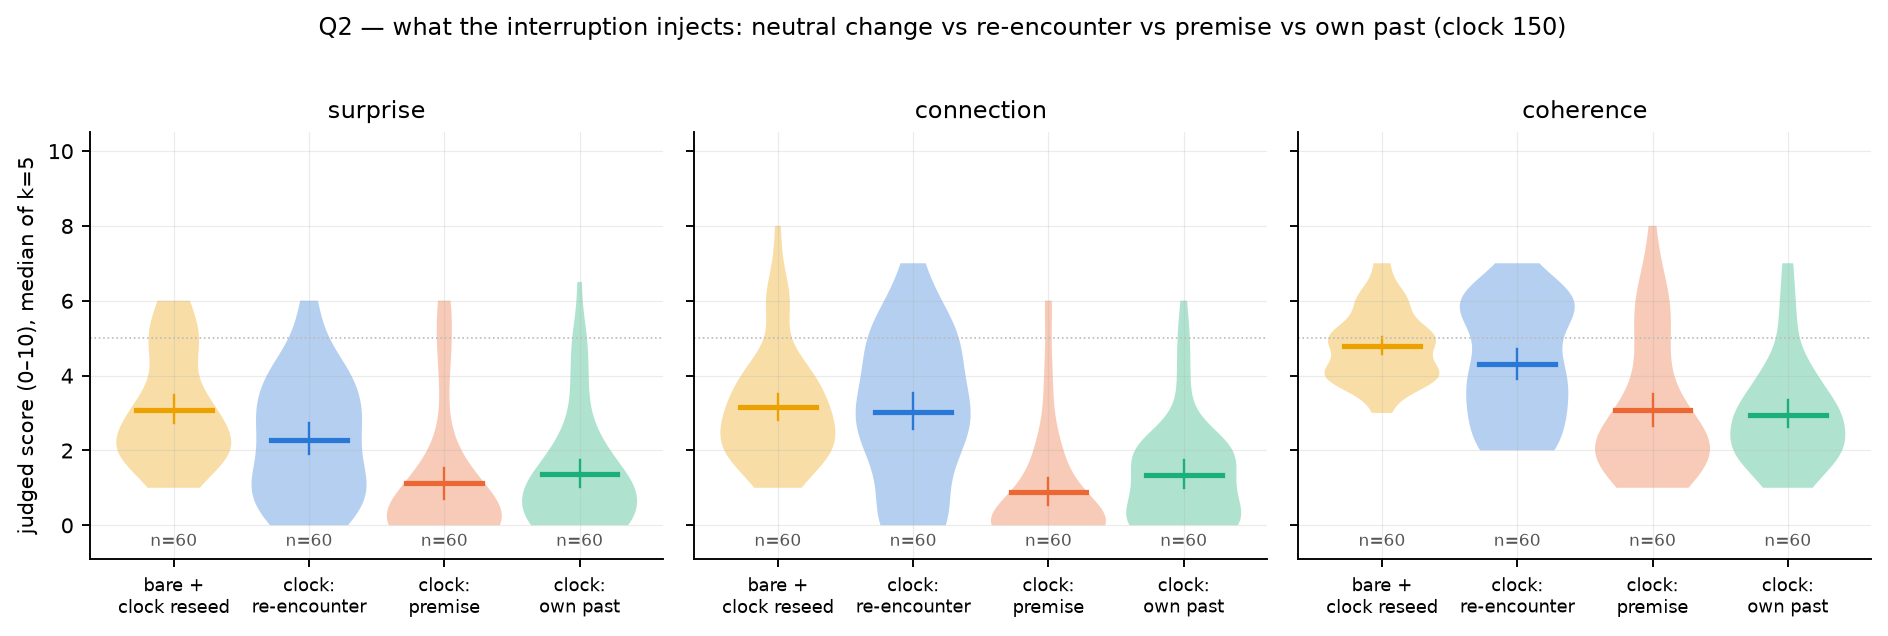
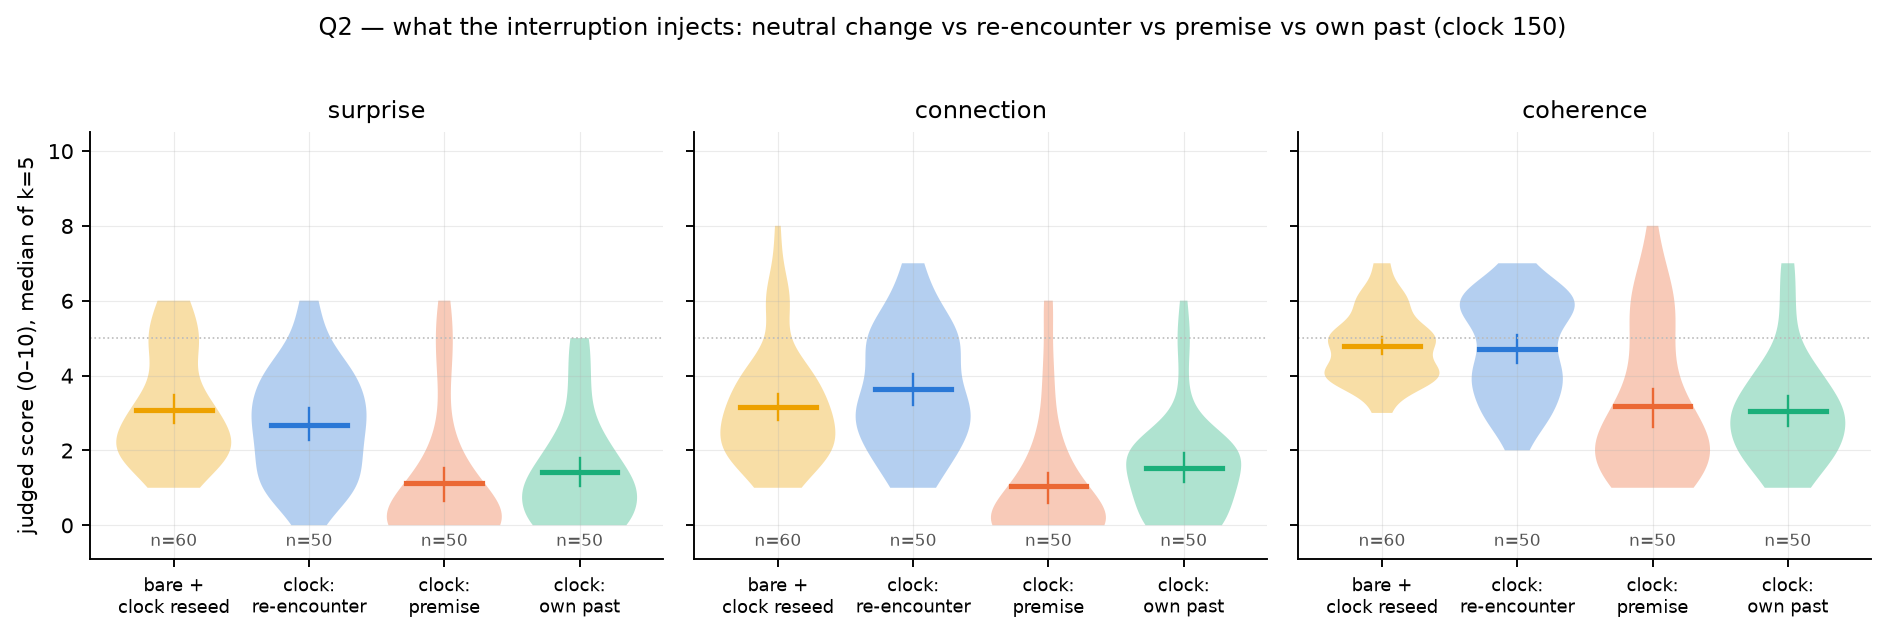
analysis_b2: exclude degenerate windows (<100 generated tokens); PAPER Q2 corrected numbers

diff --git a/scripts/analysis_b2.py b/scripts/analysis_b2.py
@@ -87,9 +87,13 @@ FAM8B = load("dream_fam8b")
 md = ["# Appendix — battery 2 (auto-generated by scripts/analysis_b2.py)\n"]
 
 
+MIN_STEP = 100  # windows ending before 100 generated tokens are degenerate (the first clock cut at step 2 is two tokens)
+
+
 def sel(cond: str, kinds=None, pool=None):
     pool = ALL if pool is None else pool
-    return [r for r in pool if r["cond"] == cond and (kinds is None or r["kind"] in kinds) and r.get("surprise") is not None]
+    return [r for r in pool if r["cond"] == cond and (kinds is None or r["kind"] in kinds) and r.get("surprise") is not None
+            and r["step"] >= MIN_STEP]
 
 
 def desc(rows, dim):

diff --git a/docs/APPENDIX_B2.md b/docs/APPENDIX_B2.md
@@ -1,119 +1,131 @@
 # Appendix — battery 2 (auto-generated by scripts/analysis_b2.py)
 
-991 judged windows total (729 from battery 2).
+1063 judged windows total (801 from battery 2).
 
 
 ### Q1 — the confound: habituation without interruption
 
 | condition | windows | kind | surprise | connection | coherence | good (S≥5&H≥5) |
 |---|---|---|---|---|---|---|
-| bare (no habituation, no interruption) | 60 | jump | 0.33 ± 0.70 | 0.17 ± 0.52 | 2.08 ± 1.86 | 0/60 |
+| bare (no habituation, no interruption) | 50 | jump | 0.28 ± 0.72 | 0.20 ± 0.57 | 2.06 ± 2.01 | 0/50 |
 | bare + habituation (no interruption) | 60 | clock | 1.70 ± 1.71 | 1.08 ± 1.10 | 4.08 ± 2.19 | 4/60 |
 | bare + habituation + clock reseed 150 | 60 | clock | 3.08 ± 1.48 | 3.15 ± 1.53 | 4.78 ± 0.95 | 12/60 |
-| DREAM scaffold (λ=0) | 50 | crystallize/jump/recurrence | 3.22 ± 1.91 | 1.60 ± 1.52 | 3.72 ± 1.67 | 8/50 |
+| DREAM scaffold (λ=0) | 47 | crystallize/jump/recurrence | 3.19 ± 1.92 | 1.64 ± 1.56 | 3.68 ± 1.69 | 8/47 |
 
 vs **bare + habituation (no interruption)** (Δ mean, 95% bootstrap CI over windows; Cliff's δ; Mann-Whitney p; paired-by-seed Δ [CI]):
 
 | condition | dim | Δ [CI] | δ | p | paired-by-seed Δ [CI] (n seeds) |
 |---|---|---|---|---|---|
-| bare (no habituation, no interruption) | surprise | **-1.37 [-1.83, -0.92]** | -0.54 | 2.8e-08 | -1.37 [-1.67, -1.07] (10) |
-| bare (no habituation, no interruption) | connection | **-0.92 [-1.23, -0.62]** | -0.54 | 3.0e-09 | -0.92 [-1.23, -0.60] (10) |
-| bare (no habituation, no interruption) | coherence | **-2.00 [-2.70, -1.28]** | -0.54 | 1.6e-07 | -2.00 [-3.25, -0.80] (10) |
+| bare (no habituation, no interruption) | surprise | **-1.42 [-1.89, -0.95]** | -0.58 | 1.4e-08 | -1.42 [-1.72, -1.12] (10) |
+| bare (no habituation, no interruption) | connection | **-0.88 [-1.20, -0.56]** | -0.52 | 1.1e-07 | -0.88 [-1.22, -0.54] (10) |
+| bare (no habituation, no interruption) | coherence | **-2.02 [-2.79, -1.23]** | -0.55 | 3.4e-07 | -2.02 [-3.37, -0.68] (10) |
 | bare + habituation + clock reseed 150 | surprise | **+1.38 [+0.80, +1.93]** | +0.50 | 1.3e-06 | +1.38 [+0.92, +1.92] (10) |
 | bare + habituation + clock reseed 150 | connection | **+2.07 [+1.60, +2.55]** | +0.75 | 5.2e-13 | +2.07 [+1.63, +2.57] (10) |
 | bare + habituation + clock reseed 150 | coherence | **+0.70 [+0.10, +1.30]** | +0.21 | 4.3e-02 | +0.70 [-0.27, +1.72] (10) |
-| DREAM scaffold (λ=0) | surprise | **+1.52 [+0.85, +2.20]** | +0.47 | 1.7e-05 | +1.79 [+1.03, +2.64] (10) |
-| DREAM scaffold (λ=0) | connection | **+0.52 [+0.04, +1.02]** | +0.20 | 6.6e-02 | +0.58 [+0.22, +0.93] (10) |
-| DREAM scaffold (λ=0) | coherence | -0.36 [-1.09, +0.36] | -0.09 | 4.2e-01 | -0.26 [-1.02, +0.54] (10) |
+| DREAM scaffold (λ=0) | surprise | **+1.49 [+0.80, +2.19]** | +0.46 | 3.4e-05 | +1.80 [+0.97, +2.75] (10) |
+| DREAM scaffold (λ=0) | connection | **+0.55 [+0.06, +1.10]** | +0.20 | 6.2e-02 | +0.61 [+0.22, +1.01] (10) |
+| DREAM scaffold (λ=0) | coherence | -0.40 [-1.14, +0.34] | -0.10 | 3.8e-01 | -0.26 [-1.03, +0.56] (10) |
 
 ### Q2 — content of the interruption (windows right before each injection)
 
 | condition | windows | kind | surprise | connection | coherence | good (S≥5&H≥5) |
 |---|---|---|---|---|---|---|
 | neutral subject change (clock 150) | 60 | clock | 3.08 ± 1.48 | 3.15 ± 1.53 | 4.78 ± 0.95 | 12/60 |
-| re-encounter stitch (clock 150) | 60 | cut | 2.28 ± 1.61 | 3.03 ± 1.97 | 4.30 ± 1.54 | 5/60 |
-| the premise itself (clock 150) | 60 | cut | 1.12 ± 1.73 | 0.90 ± 1.49 | 3.07 ± 1.80 | 4/60 |
-| the stream's own past (clock 150) | 60 | cut | 1.36 ± 1.52 | 1.33 ± 1.39 | 2.95 ± 1.40 | 3/60 |
+| re-encounter stitch (clock 150) | 50 | cut | 2.68 ± 1.46 | 3.64 ± 1.57 | 4.72 ± 1.33 | 5/50 |
+| the premise itself (clock 150) | 50 | cut | 1.14 ± 1.73 | 1.04 ± 1.57 | 3.18 ± 1.90 | 3/50 |
+| the stream's own past (clock 150) | 50 | cut | 1.42 ± 1.43 | 1.52 ± 1.35 | 3.06 ± 1.42 | 2/50 |
 
 vs **neutral subject change (clock 150)** (Δ mean, 95% bootstrap CI over windows; Cliff's δ; Mann-Whitney p; paired-by-seed Δ [CI]):
 
 | condition | dim | Δ [CI] | δ | p | paired-by-seed Δ [CI] (n seeds) |
 |---|---|---|---|---|---|
-| re-encounter stitch (clock 150) | surprise | **-0.80 [-1.35, -0.25]** | -0.27 | 9.4e-03 | -0.80 [-1.63, +0.01] (10) |
-| re-encounter stitch (clock 150) | connection | -0.12 [-0.77, +0.52] | -0.00 | 9.8e-01 | -0.12 [-1.07, +0.85] (10) |
-| re-encounter stitch (clock 150) | coherence | **-0.48 [-0.95, -0.02]** | -0.17 | 1.1e-01 | -0.48 [-1.10, +0.10] (10) |
-| the premise itself (clock 150) | surprise | **-1.97 [-2.52, -1.38]** | -0.69 | 2.9e-11 | -1.97 [-2.65, -1.38] (10) |
-| the premise itself (clock 150) | connection | **-2.25 [-2.78, -1.72]** | -0.76 | 2.3e-13 | -2.25 [-2.92, -1.67] (10) |
-| the premise itself (clock 150) | coherence | **-1.72 [-2.22, -1.20]** | -0.59 | 1.8e-08 | -1.72 [-2.37, -0.93] (10) |
-| the stream's own past (clock 150) | surprise | **-1.73 [-2.25, -1.18]** | -0.64 | 9.7e-10 | -1.73 [-2.30, -1.19] (10) |
-| the stream's own past (clock 150) | connection | **-1.82 [-2.35, -1.28]** | -0.66 | 1.9e-10 | -1.82 [-2.48, -1.18] (10) |
-| the stream's own past (clock 150) | coherence | **-1.83 [-2.26, -1.38]** | -0.72 | 3.5e-12 | -1.83 [-2.36, -1.32] (10) |
+| re-encounter stitch (clock 150) | surprise | -0.40 [-0.95, +0.14] | -0.13 | 2.4e-01 | -0.40 [-1.29, +0.46] (10) |
+| re-encounter stitch (clock 150) | connection | +0.49 [-0.09, +1.07] | +0.20 | 7.1e-02 | +0.49 [-0.56, +1.56] (10) |
+| re-encounter stitch (clock 150) | coherence | -0.06 [-0.50, +0.38] | -0.00 | 9.8e-01 | -0.06 [-0.75, +0.57] (10) |
+| the premise itself (clock 150) | surprise | **-1.94 [-2.53, -1.31]** | -0.68 | 6.1e-10 | -1.94 [-2.65, -1.30] (10) |
+| the premise itself (clock 150) | connection | **-2.11 [-2.68, -1.51]** | -0.72 | 4.1e-11 | -2.11 [-2.83, -1.46] (10) |
+| the premise itself (clock 150) | coherence | **-1.60 [-2.15, -1.01]** | -0.53 | 1.2e-06 | -1.60 [-2.36, -0.70] (10) |
+| the stream's own past (clock 150) | surprise | **-1.66 [-2.21, -1.11]** | -0.61 | 2.1e-08 | -1.66 [-2.26, -1.07] (10) |
+| the stream's own past (clock 150) | connection | **-1.63 [-2.17, -1.08]** | -0.62 | 9.0e-09 | -1.63 [-2.37, -0.91] (10) |
+| the stream's own past (clock 150) | coherence | **-1.72 [-2.18, -1.24]** | -0.70 | 1.1e-10 | -1.72 [-2.30, -1.11] (10) |
 
 ### Q3 — timing of the re-encounter: clock vs salience
 
 | condition | windows | kind | surprise | connection | coherence | good (S≥5&H≥5) |
 |---|---|---|---|---|---|---|
-| re-encounter on the clock (150) | 60 | cut | 2.28 ± 1.61 | 3.03 ± 1.97 | 4.30 ± 1.54 | 5/60 |
-| re-encounter on the clock (900; matched frequency) | 0 | — | — | — | — | 0/0 |
-| neutral change on the clock (900; matched frequency) | 3 | cut | 2.00 ± 1.41 | 1.33 ± 0.94 | 5.33 ± 1.70 | 0/3 |
-| re-encounter on salience events (event windows) | 86 | crystallize/cut/jump/recurrence | 3.90 ± 1.43 | 2.85 ± 1.74 | 3.79 ± 1.18 | 8/86 |
+| re-encounter on the clock (150) | 50 | cut | 2.68 ± 1.46 | 3.64 ± 1.57 | 4.72 ± 1.33 | 5/50 |
+| re-encounter on the clock (900; matched frequency) | 12 | cut | 2.83 ± 1.91 | 2.25 ± 1.74 | 3.92 ± 1.44 | 2/12 |
+| neutral change on the clock (900; matched frequency) | 16 | cut | 1.88 ± 1.32 | 1.69 ± 1.10 | 5.75 ± 2.02 | 0/16 |
+| re-encounter on salience events (event windows) | 80 | crystallize/cut/jump/recurrence | 3.92 ± 1.42 | 2.99 ± 1.73 | 3.75 ± 1.18 | 8/80 |
 | re-encounter on salience events (uniform windows) | 60 | clock | 2.18 ± 2.04 | 1.68 ± 1.65 | 3.93 ± 1.88 | 4/60 |
-| re-encounter on the clock (900), uniform windows | 0 | — | — | — | — | 0/0 |
-| neutral change on the clock (900), uniform windows | 0 | — | — | — | — | 0/0 |
-| salience only, no injection (event windows) | 42 | crystallize/jump/recurrence | 2.74 ± 1.76 | 1.36 ± 1.36 | 3.71 ± 1.59 | 2/42 |
+| re-encounter on the clock (900), uniform windows | 18 | clock | 4.39 ± 1.60 | 3.50 ± 1.54 | 5.00 ± 1.63 | 7/18 |
+| neutral change on the clock (900), uniform windows | 22 | clock | 5.45 ± 2.08 | 2.91 ± 2.00 | 5.95 ± 1.26 | 16/22 |
+| salience only, no injection (event windows) | 38 | crystallize/jump/recurrence | 2.63 ± 1.75 | 1.39 ± 1.42 | 3.71 ± 1.60 | 2/38 |
 
 vs **re-encounter on the clock (150)** (Δ mean, 95% bootstrap CI over windows; Cliff's δ; Mann-Whitney p; paired-by-seed Δ [CI]):
 
 | condition | dim | Δ [CI] | δ | p | paired-by-seed Δ [CI] (n seeds) |
 |---|---|---|---|---|---|
-| neutral change on the clock (900; matched frequency) | surprise | -0.28 [-1.58, +1.59] | -0.08 | 8.3e-01 | — |
-| neutral change on the clock (900; matched frequency) | connection | **-1.70 [-2.97, -0.67]** | -0.53 | 1.2e-01 | — |
-| neutral change on the clock (900; matched frequency) | coherence | +1.03 [-1.22, +2.70] | +0.37 | 2.8e-01 | — |
-| re-encounter on salience events (event windows) | surprise | **+1.61 [+1.10, +2.11]** | +0.52 | 5.9e-08 | +1.47 [+0.75, +2.17] (10) |
-| re-encounter on salience events (event windows) | connection | -0.18 [-0.80, +0.42] | -0.07 | 4.5e-01 | -0.41 [-0.95, +0.12] (10) |
-| re-encounter on salience events (event windows) | coherence | **-0.51 [-0.97, -0.05]** | -0.19 | 5.2e-02 | -0.41 [-1.17, +0.30] (10) |
-| re-encounter on salience events (uniform windows) | surprise | -0.10 [-0.75, +0.56] | -0.08 | 4.3e-01 | -0.10 [-0.72, +0.39] (10) |
-| re-encounter on salience events (uniform windows) | connection | **-1.35 [-2.00, -0.70]** | -0.39 | 1.8e-04 | -1.35 [-1.95, -0.83] (10) |
-| re-encounter on salience events (uniform windows) | coherence | -0.37 [-0.98, +0.23] | -0.12 | 2.5e-01 | -0.37 [-0.83, +0.08] (10) |
-| salience only, no injection (event windows) | surprise | +0.45 [-0.20, +1.13] | +0.14 | 2.4e-01 | +0.61 [-0.26, +1.58] (10) |
-| salience only, no injection (event windows) | connection | **-1.68 [-2.31, -1.02]** | -0.49 | 1.8e-05 | -1.56 [-2.30, -0.77] (10) |
-| salience only, no injection (event windows) | coherence | -0.59 [-1.22, +0.03] | -0.19 | 9.1e-02 | -0.53 [-1.46, +0.34] (10) |
+| re-encounter on the clock (900; matched frequency) | surprise | +0.15 [-0.97, +1.31] | +0.04 | 8.6e-01 | +0.50 [-0.55, +1.75] (3) |
+| re-encounter on the clock (900; matched frequency) | connection | **-1.39 [-2.41, -0.25]** | -0.46 | 1.2e-02 | -1.35 [-3.60, +1.00] (3) |
+| re-encounter on the clock (900; matched frequency) | coherence | -0.80 [-1.72, +0.08] | -0.29 | 1.1e-01 | -0.62 [-2.25, +1.55] (3) |
+| neutral change on the clock (900; matched frequency) | surprise | **-0.81 [-1.56, -0.02]** | -0.30 | 6.5e-02 | -0.68 [-1.75, +0.40] (4) |
+| neutral change on the clock (900; matched frequency) | connection | **-1.95 [-2.65, -1.27]** | -0.65 | 7.4e-05 | -1.81 [-3.07, -0.64] (4) |
+| neutral change on the clock (900; matched frequency) | coherence | +1.03 [-0.06, +2.06] | +0.36 | 3.0e-02 | +1.30 [+0.02, +2.57] (4) |
+| re-encounter on salience events (event windows) | surprise | **+1.24 [+0.73, +1.75]** | +0.44 | 2.0e-05 | +1.10 [+0.34, +1.85] (10) |
+| re-encounter on salience events (event windows) | connection | **-0.65 [-1.23, -0.06]** | -0.24 | 2.2e-02 | -0.92 [-1.55, -0.29] (10) |
+| re-encounter on salience events (event windows) | coherence | **-0.97 [-1.41, -0.52]** | -0.39 | 1.5e-04 | -0.86 [-1.72, -0.06] (10) |
+| re-encounter on salience events (uniform windows) | surprise | -0.50 [-1.14, +0.15] | -0.21 | 5.5e-02 | -0.50 [-1.11, -0.01] (10) |
+| re-encounter on salience events (uniform windows) | connection | **-1.96 [-2.54, -1.35]** | -0.61 | 2.7e-08 | -1.96 [-2.62, -1.37] (10) |
+| re-encounter on salience events (uniform windows) | coherence | **-0.79 [-1.38, -0.19]** | -0.25 | 2.1e-02 | -0.79 [-1.31, -0.29] (10) |
+| re-encounter on the clock (900), uniform windows | surprise | **+1.71 [+0.81, +2.51]** | +0.58 | 2.4e-04 | +2.06 [+1.20, +2.67] (3) |
+| re-encounter on the clock (900), uniform windows | connection | -0.14 [-0.98, +0.68] | -0.02 | 9.3e-01 | -0.10 [-1.43, +1.33] (3) |
+| re-encounter on the clock (900), uniform windows | coherence | +0.28 [-0.55, +1.11] | +0.09 | 5.6e-01 | +0.47 [-0.07, +0.97] (3) |
+| neutral change on the clock (900), uniform windows | surprise | **+2.77 [+1.77, +3.68]** | +0.69 | 2.7e-06 | +2.85 [+1.46, +4.23] (4) |
+| neutral change on the clock (900), uniform windows | connection | -0.73 [-1.67, +0.22] | -0.25 | 9.2e-02 | -0.62 [-2.92, +1.57] (4) |
+| neutral change on the clock (900), uniform windows | coherence | **+1.23 [+0.56, +1.84]** | +0.53 | 2.5e-04 | +1.55 [+0.20, +2.38] (4) |
+| salience only, no injection (event windows) | surprise | -0.05 [-0.73, +0.64] | -0.05 | 7.0e-01 | +0.18 [-0.80, +1.31] (10) |
+| salience only, no injection (event windows) | connection | **-2.25 [-2.87, -1.62]** | -0.73 | 3.8e-09 | -2.11 [-3.00, -1.16] (10) |
+| salience only, no injection (event windows) | coherence | **-1.01 [-1.64, -0.37]** | -0.35 | 4.5e-03 | -0.87 [-1.92, +0.12] (10) |
 
 ### Q4 — frequency of interruption (neutral seed)
 
 | condition | windows | kind | surprise | connection | coherence | good (S≥5&H≥5) |
 |---|---|---|---|---|---|---|
-| every 75 (before injection) | 60 | cut | 0.88 ± 1.27 | 1.15 ± 1.17 | 3.03 ± 0.93 | 2/60 |
+| every 75 (before injection) | 50 | cut | 0.86 ± 1.04 | 1.28 ± 1.04 | 3.08 ± 0.63 | 1/50 |
 | every 150 (before injection) | 60 | clock | 3.08 ± 1.48 | 3.15 ± 1.53 | 4.78 ± 0.95 | 12/60 |
-| every 300 (before injection) | 60 | cut | 2.53 ± 1.61 | 2.25 ± 1.79 | 5.25 ± 1.62 | 7/60 |
-| every 600 (before injection) | 60 | cut | 2.64 ± 1.73 | 2.13 ± 1.79 | 4.77 ± 1.94 | 6/60 |
-| every 900 (before injection) | 3 | cut | 2.00 ± 1.41 | 1.33 ± 0.94 | 5.33 ± 1.70 | 0/3 |
+| every 300 (before injection) | 50 | cut | 2.90 ± 1.50 | 2.70 ± 1.63 | 5.88 ± 0.82 | 7/50 |
+| every 600 (before injection) | 50 | cut | 3.06 ± 1.58 | 2.56 ± 1.66 | 5.32 ± 1.62 | 6/50 |
+| every 900 (before injection) | 16 | cut | 1.88 ± 1.32 | 1.69 ± 1.10 | 5.75 ± 2.02 | 0/16 |
 | every 300 (mid-segment) | 60 | clock | 4.93 ± 1.53 | 3.47 ± 1.68 | 6.07 ± 0.98 | 34/60 |
 | every 600 (mid-segment) | 60 | clock | 4.12 ± 1.83 | 2.70 ± 1.63 | 5.65 ± 1.54 | 23/60 |
-| every 900 (mid-segment) | 0 | — | — | — | — | 0/0 |
+| every 900 (mid-segment) | 22 | clock | 5.45 ± 2.08 | 2.91 ± 2.00 | 5.95 ± 1.26 | 16/22 |
 
 vs **every 150 (before injection)** (Δ mean, 95% bootstrap CI over windows; Cliff's δ; Mann-Whitney p; paired-by-seed Δ [CI]):
 
 | condition | dim | Δ [CI] | δ | p | paired-by-seed Δ [CI] (n seeds) |
 |---|---|---|---|---|---|
-| every 75 (before injection) | surprise | **-2.21 [-2.68, -1.72]** | -0.83 | 1.7e-15 | -2.21 [-2.93, -1.60] (10) |
-| every 75 (before injection) | connection | **-2.00 [-2.48, -1.52]** | -0.77 | 5.9e-14 | -2.00 [-2.65, -1.37] (10) |
-| every 75 (before injection) | coherence | **-1.75 [-2.08, -1.40]** | -0.84 | 2.0e-16 | -1.75 [-2.13, -1.32] (10) |
-| every 300 (before injection) | surprise | -0.55 [-1.10, +0.00] | -0.21 | 4.6e-02 | -0.55 [-1.08, -0.05] (10) |
-| every 300 (before injection) | connection | **-0.90 [-1.50, -0.30]** | -0.31 | 2.6e-03 | -0.90 [-1.68, -0.12] (10) |
-| every 300 (before injection) | coherence | +0.47 [-0.03, +0.95] | +0.33 | 1.3e-03 | +0.47 [+0.05, +0.92] (10) |
-| every 600 (before injection) | surprise | -0.44 [-1.01, +0.14] | -0.16 | 1.2e-01 | -0.44 [-1.11, +0.12] (10) |
-| every 600 (before injection) | connection | **-1.02 [-1.60, -0.40]** | -0.35 | 9.3e-04 | -1.02 [-1.65, -0.45] (10) |
-| every 600 (before injection) | coherence | -0.02 [-0.57, +0.53] | +0.05 | 6.4e-01 | -0.02 [-0.58, +0.52] (10) |
-| every 900 (before injection) | surprise | -1.08 [-2.35, +0.77] | -0.45 | 1.8e-01 | — |
-| every 900 (before injection) | connection | **-1.82 [-3.08, -0.88]** | -0.68 | 4.4e-02 | — |
-| every 900 (before injection) | coherence | +0.55 [-1.73, +2.15] | +0.24 | 4.7e-01 | — |
+| every 75 (before injection) | surprise | **-2.22 [-2.69, -1.75]** | -0.83 | 1.7e-14 | -2.22 [-2.91, -1.73] (10) |
+| every 75 (before injection) | connection | **-1.87 [-2.35, -1.38]** | -0.76 | 1.1e-12 | -1.87 [-2.49, -1.32] (10) |
+| every 75 (before injection) | coherence | **-1.70 [-2.00, -1.41]** | -0.86 | 1.5e-15 | -1.70 [-2.00, -1.39] (10) |
+| every 300 (before injection) | surprise | -0.18 [-0.74, +0.37] | -0.06 | 5.7e-01 | -0.18 [-0.81, +0.39] (10) |
+| every 300 (before injection) | connection | -0.45 [-1.04, +0.12] | -0.18 | 1.1e-01 | -0.45 [-1.31, +0.45] (10) |
+| every 300 (before injection) | coherence | **+1.10 [+0.78, +1.42]** | +0.59 | 2.5e-08 | +1.10 [+0.69, +1.57] (10) |
+| every 600 (before injection) | surprise | -0.02 [-0.60, +0.54] | -0.00 | 9.8e-01 | -0.02 [-0.74, +0.60] (10) |
+| every 600 (before injection) | connection | -0.59 [-1.19, +0.01] | -0.21 | 4.9e-02 | -0.59 [-1.28, +0.03] (10) |
+| every 600 (before injection) | coherence | **+0.54 [+0.03, +1.03]** | +0.26 | 1.8e-02 | +0.54 [-0.09, +1.13] (10) |
+| every 900 (before injection) | surprise | **-1.21 [-1.94, -0.45]** | -0.45 | 5.3e-03 | -0.96 [-2.06, -0.21] (4) |
+| every 900 (before injection) | connection | **-1.46 [-2.12, -0.80]** | -0.53 | 9.8e-04 | -1.27 [-2.88, +0.08] (4) |
+| every 900 (before injection) | coherence | +0.97 [-0.09, +1.96] | +0.38 | 1.8e-02 | +0.79 [-1.40, +2.33] (4) |
 | every 300 (mid-segment) | surprise | **+1.85 [+1.30, +2.38]** | +0.60 | 9.0e-09 | +1.85 [+1.23, +2.33] (10) |
 | every 300 (mid-segment) | connection | +0.32 [-0.27, +0.88] | +0.13 | 2.0e-01 | +0.32 [-0.30, +0.77] (10) |
 | every 300 (mid-segment) | coherence | **+1.28 [+0.93, +1.62]** | +0.63 | 1.1e-09 | +1.28 [+0.88, +1.68] (10) |
 | every 600 (mid-segment) | surprise | **+1.03 [+0.45, +1.62]** | +0.33 | 1.3e-03 | +1.03 [+0.58, +1.47] (10) |
 | every 600 (mid-segment) | connection | -0.45 [-1.03, +0.10] | -0.17 | 9.1e-02 | -0.45 [-1.00, +0.17] (10) |
 | every 600 (mid-segment) | coherence | **+0.87 [+0.40, +1.32]** | +0.42 | 4.6e-05 | +0.87 [+0.32, +1.43] (10) |
+| every 900 (mid-segment) | surprise | **+2.37 [+1.40, +3.27]** | +0.64 | 6.9e-06 | +2.56 [+2.21, +2.94] (4) |
+| every 900 (mid-segment) | connection | -0.24 [-1.12, +0.69] | -0.13 | 3.7e-01 | -0.08 [-0.17, +0.00] (4) |
+| every 900 (mid-segment) | coherence | **+1.17 [+0.56, +1.72]** | +0.58 | 3.3e-05 | +1.04 [+0.42, +1.71] (4) |
 
 ### Q4b — phase within the segment: score by tokens since the last interruption (all judged windows, both kinds)
 
@@ -123,18 +135,27 @@ vs **every 150 (before injection)** (Δ mean, 95% bootstrap CI over windows; Cli
 | 150 | 60 | 3.08 | 3.15 | 4.78 | 3.08 / 3.15 / 4.78 (n=60) | — / — / — (n=0) |
 | 300 | 110 | 4.01 | 3.12 | 5.98 | 5.28 / 3.35 / 5.95 (n=40) | 3.29 / 2.99 / 6.00 (n=70) |
 | 600 | 110 | 3.64 | 2.64 | 5.50 | 5.40 / 3.20 / 5.65 (n=20) | 3.24 / 2.51 / 5.47 (n=90) |
-| 900 | 2 | 2.50 | 2.00 | 6.50 | — / — / — (n=0) | 2.50 / 2.00 / 6.50 (n=2) |
+| 900 | 38 | 3.95 | 2.39 | 5.87 | 6.00 / 2.87 / 6.20 (n=15) | 2.61 / 2.09 / 5.65 (n=23) |
 
 ### Q5 — second generator family (Qwen3-8B-Base, 10 seeds)
 
 | condition | windows | kind | surprise | connection | coherence | good (S≥5&H≥5) |
 |---|---|---|---|---|---|---|
-| 8B: bare | 11 | clock/jump | 0.64 ± 1.07 | 0.45 ± 0.78 | 3.18 ± 1.99 | 0/11 |
-| 8B: bare + habituation | 0 | — | — | — | — | 0/0 |
-| 8B: bare + habituation + clock reseed 150 | 0 | — | — | — | — | 0/0 |
-| 8B: DREAM scaffold (λ=0) | 0 | — | — | — | — | 0/0 |
+| 8B: bare | 33 | clock/jump | 0.88 ± 1.34 | 0.55 ± 0.86 | 3.09 ± 1.98 | 0/33 |
+| 8B: bare + habituation | 18 | clock | 1.78 ± 1.55 | 0.67 ± 0.67 | 4.89 ± 2.60 | 2/18 |
+| 8B: bare + habituation + clock reseed 150 | 13 | clock/cut | 3.73 ± 1.62 | 4.23 ± 1.58 | 3.92 ± 0.83 | 0/13 |
+| 8B: DREAM scaffold (λ=0) | 31 | clock/crystallize/cut/jump | 1.74 ± 1.66 | 0.58 ± 0.66 | 3.81 ± 1.96 | 0/31 |
 
 vs **8B: bare + habituation** (Δ mean, 95% bootstrap CI over windows; Cliff's δ; Mann-Whitney p; paired-by-seed Δ [CI]):
 
 | condition | dim | Δ [CI] | δ | p | paired-by-seed Δ [CI] (n seeds) |
 |---|---|---|---|---|---|
+| 8B: bare | surprise | **-0.90 [-1.76, -0.09]** | -0.38 | 1.7e-02 | -0.90 [-1.80, -0.03] (3) |
+| 8B: bare | connection | -0.12 [-0.54, +0.29] | -0.15 | 3.1e-01 | -0.12 [-0.50, +0.29] (3) |
+| 8B: bare | coherence | **-1.80 [-3.14, -0.42]** | -0.36 | 3.1e-02 | -1.80 [-5.64, +1.61] (3) |
+| 8B: bare + habituation + clock reseed 150 | surprise | **+1.95 [+0.76, +3.07]** | +0.59 | 5.1e-03 | +1.75 [+0.17, +4.25] (3) |
+| 8B: bare + habituation + clock reseed 150 | connection | **+3.56 [+2.62, +4.43]** | +0.94 | 7.1e-06 | +3.22 [+2.50, +4.67] (3) |
+| 8B: bare + habituation + clock reseed 150 | coherence | -0.97 [-2.22, +0.35] | -0.38 | 7.4e-02 | -0.39 [-2.33, +2.17] (3) |
+| 8B: DREAM scaffold (λ=0) | surprise | -0.04 [-0.99, +0.87] | -0.04 | 8.0e-01 | — |
+| 8B: DREAM scaffold (λ=0) | connection | -0.09 [-0.47, +0.29] | -0.07 | 6.5e-01 | — |
+| 8B: DREAM scaffold (λ=0) | coherence | -1.08 [-2.44, +0.29] | -0.24 | 1.6e-01 | — |

diff --git a/docs/APPENDIX_HIDDEN_b2.md b/docs/APPENDIX_HIDDEN_b2.md
@@ -1,0 +1,103 @@
+# Residual-stream analysis (b2)
+
+100 cells, layers [0, 4, 8, 12, 16, 20, 24, 28, 32, 36, 40, 44, 47]. Window vectors are mean-centered per layer over all cells of this set before cosine geometry (anisotropy of mean-pooled states); premise similarity and injection deltas are raw.
+
+
+## H1 — per-layer geometry (mean over cells; 95% bootstrap CI over cells)
+
+| condition | n | radius L0 | radius L4 | radius L8 | radius L12 | radius L16 | radius L20 | radius L24 | radius L28 | radius L32 | radius L36 | radius L40 | radius L44 | radius L47 | commit layer (idx) | final entropy |
+|---|---|---|---|---|---|---|---|---|---|---|---|---|---|---|---|---|
+| bare + habituation | 10 | 0.420 | 0.367 | 0.364 | 0.370 | 0.370 | 0.358 | 0.363 | 0.354 | 0.346 | 0.350 | 0.354 | 0.339 | 0.347 | 10.94 [10.83, 11.05] | 0.87 |
+| clock: re-encounter | 10 | 0.418 | 0.378 | 0.382 | 0.397 | 0.396 | 0.397 | 0.418 | 0.399 | 0.400 | 0.419 | 0.375 | 0.343 | 0.347 | 10.94 [10.90, 10.98] | 0.47 |
+| clock: premise | 10 | 0.302 | 0.257 | 0.257 | 0.263 | 0.257 | 0.249 | 0.257 | 0.262 | 0.261 | 0.269 | 0.260 | 0.241 | 0.204 | 11.10 [11.03, 11.16] | 0.36 |
+| clock: own past | 10 | 0.327 | 0.282 | 0.297 | 0.316 | 0.314 | 0.315 | 0.336 | 0.322 | 0.314 | 0.331 | 0.284 | 0.238 | 0.199 | 11.09 [11.02, 11.16] | 0.32 |
+| salience: re-encounter | 10 | 0.425 | 0.404 | 0.415 | 0.440 | 0.450 | 0.459 | 0.480 | 0.486 | 0.495 | 0.506 | 0.474 | 0.444 | 0.511 | 10.90 [10.85, 10.96] | 0.74 |
+| clock 75 | 10 | 0.395 | 0.304 | 0.293 | 0.297 | 0.290 | 0.281 | 0.288 | 0.278 | 0.276 | 0.285 | 0.272 | 0.261 | 0.252 | 11.02 [10.98, 11.06] | 0.24 |
+| clock 300 | 10 | 0.570 | 0.502 | 0.548 | 0.573 | 0.583 | 0.583 | 0.597 | 0.590 | 0.601 | 0.614 | 0.563 | 0.549 | 0.575 | 10.93 [10.91, 10.95] | 0.52 |
+| clock 600 | 10 | 0.579 | 0.491 | 0.482 | 0.493 | 0.513 | 0.512 | 0.511 | 0.501 | 0.507 | 0.510 | 0.495 | 0.509 | 0.561 | 10.88 [10.83, 10.92] | 0.86 |
+
+## H2 — which layer's novelty predicts judged surprise? (670 judged windows)
+
+
+**novelty vs everything before the window** — Spearman with judged surprise
+
+| layer | ρ pooled | p | ρ within bare + habituation | ρ within clock: re-encounter | ρ within clock: premise | ρ within clock: own past | ρ within salience: re-encounter | ρ within clock 75 | ρ within clock 300 | ρ within clock 600 |
+|---|---|---|---|---|---|---|---|---|---|---|
+| 0 | +0.49 | 6.6e-42 | +0.29 | +0.30 | +0.50 | +0.31 | +0.35 | -0.23 | +0.14 | -0.03 |
+| 4 | +0.35 | 2.4e-20 | +0.07 | +0.11 | +0.42 | +0.35 | -0.00 | -0.06 | +0.18 | -0.11 |
+| 8 | +0.24 | 4.1e-10 | +0.02 | +0.02 | +0.28 | +0.38 | -0.19 | +0.02 | +0.13 | -0.15 |
+| 12 | +0.22 | 9.2e-09 | -0.03 | +0.03 | +0.31 | +0.39 | -0.27 | +0.03 | +0.16 | -0.13 |
+| 16 | +0.24 | 5.9e-10 | -0.05 | +0.03 | +0.34 | +0.38 | -0.26 | +0.07 | +0.18 | -0.12 |
+| 20 | +0.20 | 1.1e-07 | -0.12 | +0.03 | +0.37 | +0.36 | -0.31 | +0.10 | +0.19 | -0.12 |
+| 24 | +0.18 | 3.9e-06 | -0.14 | +0.06 | +0.39 | +0.35 | -0.34 | +0.11 | +0.19 | -0.10 |
+| 28 | +0.15 | 1.2e-04 | -0.16 | +0.05 | +0.35 | +0.30 | -0.41 | +0.10 | +0.19 | -0.11 |
+| 32 | +0.14 | 1.9e-04 | -0.15 | +0.06 | +0.38 | +0.28 | -0.40 | +0.11 | +0.21 | -0.12 |
+| 36 | +0.13 | 1.0e-03 | -0.16 | +0.04 | +0.39 | +0.30 | -0.43 | +0.11 | +0.21 | -0.10 |
+| 40 | +0.18 | 2.6e-06 | -0.09 | +0.01 | +0.45 | +0.21 | -0.41 | +0.02 | +0.22 | -0.14 |
+| 44 | +0.21 | 3.2e-08 | -0.09 | -0.01 | +0.52 | +0.19 | -0.35 | -0.07 | +0.20 | -0.14 |
+| 47 | +0.12 | 2.1e-03 | -0.30 | -0.07 | +0.45 | +0.26 | -0.42 | +0.02 | +0.17 | -0.21 |
+
+**local step vs the previous 160 tokens** — Spearman with judged surprise
+
+| layer | ρ pooled | p | ρ within bare + habituation | ρ within clock: re-encounter | ρ within clock: premise | ρ within clock: own past | ρ within salience: re-encounter | ρ within clock 75 | ρ within clock 300 | ρ within clock 600 |
+|---|---|---|---|---|---|---|---|---|---|---|
+| 0 | +0.47 | 7.1e-38 | +0.77 | +0.33 | +0.58 | +0.30 | +0.37 | -0.34 | +0.46 | +0.31 |
+| 4 | +0.57 | 2.2e-58 | +0.67 | +0.43 | +0.64 | +0.26 | +0.35 | -0.19 | +0.63 | +0.34 |
+| 8 | +0.57 | 4.1e-59 | +0.59 | +0.34 | +0.69 | +0.27 | +0.30 | +0.11 | +0.59 | +0.30 |
+| 12 | +0.55 | 3.5e-55 | +0.54 | +0.31 | +0.69 | +0.31 | +0.31 | +0.13 | +0.56 | +0.29 |
+| 16 | +0.55 | 5.5e-54 | +0.49 | +0.29 | +0.67 | +0.33 | +0.30 | +0.11 | +0.56 | +0.30 |
+| 20 | +0.51 | 4.9e-46 | +0.41 | +0.25 | +0.68 | +0.32 | +0.27 | +0.17 | +0.51 | +0.32 |
+| 24 | +0.48 | 3.0e-40 | +0.36 | +0.23 | +0.65 | +0.29 | +0.24 | +0.19 | +0.58 | +0.31 |
+| 28 | +0.44 | 4.8e-33 | +0.27 | +0.24 | +0.65 | +0.29 | +0.18 | +0.19 | +0.52 | +0.31 |
+| 32 | +0.42 | 1.3e-29 | +0.23 | +0.26 | +0.63 | +0.30 | +0.14 | +0.21 | +0.46 | +0.30 |
+| 36 | +0.41 | 6.8e-28 | +0.22 | +0.27 | +0.63 | +0.32 | +0.13 | +0.16 | +0.48 | +0.29 |
+| 40 | +0.45 | 2.3e-35 | +0.27 | +0.31 | +0.65 | +0.28 | +0.20 | +0.04 | +0.49 | +0.26 |
+| 44 | +0.47 | 1.5e-38 | +0.30 | +0.31 | +0.60 | +0.23 | +0.22 | +0.01 | +0.45 | +0.27 |
+| 47 | +0.35 | 5.8e-21 | +0.15 | +0.24 | +0.58 | +0.33 | +0.22 | +0.21 | +0.35 | +0.07 |
+
+Commitment layer (mean first-agreeing captured layer) vs surprise: ρ=-0.15 (p=6.4e-05); final entropy vs surprise: ρ=+0.34 (p=2.9e-19).
+- within bare + habituation: commit ρ=-0.02 (p=9.1e-01), final entropy ρ=+0.58 (p=1.2e-05), mean commit 10.91, mean surprise 1.24
+- within clock: re-encounter: commit ρ=-0.19 (p=1.4e-01), final entropy ρ=+0.08 (p=5.6e-01), mean commit 10.91, mean surprise 2.55
+- within clock: premise: commit ρ=-0.25 (p=5.9e-02), final entropy ρ=+0.58 (p=1.4e-06), mean commit 11.11, mean surprise 1.02
+- within clock: own past: commit ρ=-0.18 (p=1.6e-01), final entropy ρ=+0.31 (p=1.7e-02), mean commit 11.13, mean surprise 1.37
+- within salience: re-encounter: commit ρ=+0.35 (p=6.3e-05), final entropy ρ=+0.53 (p=2.5e-10), mean commit 10.94, mean surprise 3.11
+- within clock 75: commit ρ=+0.35 (p=6.0e-03), final entropy ρ=+0.58 (p=1.5e-06), mean commit 11.01, mean surprise 0.88
+- within clock 300: commit ρ=-0.14 (p=1.7e-01), final entropy ρ=+0.26 (p=7.8e-03), mean commit 10.91, mean surprise 3.89
+- within clock 600: commit ρ=-0.00 (p=9.7e-01), final entropy ρ=+0.17 (p=8.8e-02), mean commit 10.84, mean surprise 3.49
+
+## H1b — similarity of the stream to the premise state, per layer (mean over windows, then cells)
+
+| condition | L0 | L4 | L8 | L12 | L16 | L20 | L24 | L28 | L32 | L36 | L40 | L44 | L47 |
+|---|---|---|---|---|---|---|---|---|---|---|---|---|---|
+| bare + habituation | 0.919 | 0.732 | 0.663 | 0.614 | 0.504 | 0.559 | 0.580 | 0.581 | 0.622 | 0.661 | 0.615 | 0.736 | 0.785 |
+| clock: re-encounter | 0.936 | 0.766 | 0.677 | 0.623 | 0.511 | 0.561 | 0.574 | 0.564 | 0.603 | 0.628 | 0.608 | 0.745 | 0.752 |
+| clock: premise | 0.946 | 0.774 | 0.688 | 0.631 | 0.522 | 0.567 | 0.578 | 0.577 | 0.608 | 0.629 | 0.620 | 0.758 | 0.766 |
+| clock: own past | 0.936 | 0.757 | 0.671 | 0.617 | 0.505 | 0.553 | 0.566 | 0.577 | 0.611 | 0.636 | 0.625 | 0.769 | 0.808 |
+| salience: re-encounter | 0.926 | 0.757 | 0.690 | 0.640 | 0.529 | 0.582 | 0.600 | 0.596 | 0.634 | 0.669 | 0.638 | 0.759 | 0.771 |
+| clock 75 | 0.935 | 0.754 | 0.639 | 0.584 | 0.474 | 0.519 | 0.529 | 0.517 | 0.551 | 0.564 | 0.542 | 0.691 | 0.657 |
+| clock 300 | 0.934 | 0.774 | 0.696 | 0.645 | 0.527 | 0.578 | 0.593 | 0.580 | 0.615 | 0.641 | 0.607 | 0.733 | 0.707 |
+| clock 600 | 0.931 | 0.778 | 0.715 | 0.670 | 0.555 | 0.612 | 0.633 | 0.633 | 0.673 | 0.710 | 0.668 | 0.782 | 0.808 |
+
+## H3 — how deep does an interruption reach? (before/after cosine distance minus random-position control; and return to the premise)
+
+| condition | n cells | injections | Δ L0 | Δ L4 | Δ L8 | Δ L12 | Δ L16 | Δ L20 | Δ L24 | Δ L28 | Δ L32 | Δ L36 | Δ L40 | Δ L44 | Δ L47 |
+|---|---|---|---|---|---|---|---|---|---|---|---|---|---|---|---|
+| clock: re-encounter | 10 | 290 | +0.003 | +0.008 | +0.006 | +0.007 | +0.007 | +0.008 | +0.010 | +0.011 | +0.011 | +0.014 | +0.016 | +0.011 | +0.009 |
+| clock: premise | 10 | 290 | +0.002 | +0.004 | +0.004 | +0.004 | +0.005 | +0.007 | +0.009 | +0.008 | +0.008 | +0.011 | +0.010 | +0.005 | +0.003 |
+| clock: own past | 10 | 290 | +0.002 | +0.007 | +0.007 | +0.008 | +0.010 | +0.014 | +0.017 | +0.015 | +0.016 | +0.020 | +0.020 | +0.011 | +0.012 |
+| salience: re-encounter | 10 | 47 | +0.020 | +0.045 | +0.042 | +0.042 | +0.043 | +0.041 | +0.038 | +0.031 | +0.030 | +0.031 | +0.051 | +0.038 | +0.027 |
+| clock 75 | 10 | 590 | +0.001 | +0.003 | +0.000 | +0.001 | +0.001 | +0.001 | +0.005 | +0.005 | +0.005 | +0.007 | +0.008 | +0.004 | +0.003 |
+| clock 300 | 10 | 140 | +0.006 | +0.019 | +0.018 | +0.021 | +0.023 | +0.022 | +0.026 | +0.026 | +0.024 | +0.029 | +0.040 | +0.028 | +0.016 |
+| clock 600 | 10 | 70 | +0.015 | +0.037 | +0.038 | +0.042 | +0.043 | +0.045 | +0.050 | +0.047 | +0.046 | +0.055 | +0.075 | +0.054 | +0.045 |
+
+**Return to the premise** (Δ similarity to the premise state, after − before, minus control):
+
+| condition | L0 | L4 | L8 | L12 | L16 | L20 | L24 | L28 | L32 | L36 | L40 | L44 | L47 |
+|---|---|---|---|---|---|---|---|---|---|---|---|---|---|
+| clock: re-encounter | +0.002 | +0.005 | +0.005 | +0.006 | +0.009 | +0.009 | +0.007 | +0.003 | +0.003 | +0.002 | +0.004 | +0.005 | -0.011 |
+| clock: premise | +0.008 | +0.010 | +0.009 | +0.009 | +0.011 | +0.009 | +0.008 | +0.002 | -0.002 | -0.006 | +0.002 | +0.005 | -0.004 |
+| clock: own past | +0.002 | -0.002 | -0.003 | -0.004 | -0.003 | -0.005 | -0.006 | -0.006 | -0.009 | -0.012 | -0.008 | -0.003 | -0.010 |
+| salience: re-encounter | +0.017 | +0.030 | +0.027 | +0.029 | +0.027 | +0.025 | +0.025 | +0.025 | +0.025 | +0.022 | +0.027 | +0.025 | +0.030 |
+| clock 75 | +0.000 | +0.001 | -0.001 | -0.001 | +0.000 | -0.001 | -0.002 | -0.004 | -0.004 | -0.005 | -0.005 | -0.004 | -0.013 |
+| clock 300 | +0.003 | +0.007 | +0.003 | +0.004 | +0.008 | +0.007 | +0.006 | -0.003 | -0.004 | -0.006 | +0.001 | +0.004 | -0.001 |
+| clock 600 | +0.015 | +0.030 | +0.030 | +0.033 | +0.036 | +0.034 | +0.031 | +0.026 | +0.027 | +0.022 | +0.035 | +0.031 | +0.020 |

diff --git a/docs/PAPER_DREAM.md b/docs/PAPER_DREAM.md
@@ -215,17 +215,20 @@ bootstrap CIs over the 10 seeds; Cliff's δ and Mann–Whitney on windows).
   interrupt it" — with the connection effect belonging to the
   interruption.
 - **The interruption must lead away.** With the same clock (150), a
-  neutral subject change beats a re-encounter stitch on surprise
-  (3.08 vs 2.28, Δ −0.80 [−1.35, −0.25]) and coherence (4.78 vs 4.30),
-  and ties on connection (3.15 vs 3.03). Injecting the **premise
-  itself** (1.12 / 0.90 / 3.07) or a window of the stream's **own past**
-  (1.36 / 1.33 / 2.95) is as bad as not interrupting at all — every
-  paired CI vs the neutral change excludes zero (surprise −1.97 [−2.65,
-  −1.38] and −1.73 [−2.30, −1.19]; connection −2.25 and −1.82; δ ≈
-  −0.7). Qualitatively, the own-past injection *reinforces* whatever
-  attractor the stream is in (an exam-key well fed its own questions
-  back). The judge sees connection when the stream finds its own way
-  back after being sent away — not when it is told to return.
+  neutral subject change and a re-encounter stitch are close: 3.08 /
+  3.15 / 4.78 vs 2.68 / 3.64 / 4.72 (surprise / connection / coherence;
+  the stitch trades some surprise for connection, Δ connection +0.49
+  [−0.09, +1.07], not significant). Injecting the **premise itself**
+  (1.14 / 1.04 / 3.18) or a window of the stream's **own past** (1.42 /
+  1.52 / 3.06) is as bad as not interrupting at all — every paired CI vs
+  the neutral change excludes zero (connection −2.11 [−2.83, −1.46] and
+  −1.63 [−2.37, −0.91]; coherence −1.60 and −1.72; δ ≈ −0.6 to −0.7).
+  Qualitatively, the own-past injection *reinforces* whatever attractor
+  the stream is in (an exam-key well fed its own questions back). A
+  return works only as a short stitch that still opens a new sentence;
+  a literal return closes the loop. (Windows ending before 100 generated
+  tokens — the two-token fragment before the first clock cut — are
+  excluded throughout; 73 such windows, mean surprise 0.95.)
 - **Timing.** [TBD — salience-timed re-encounter vs matched-frequency
   clock controls; judging]
 - **Frequency: the yield of an interruption depends on the thread it
